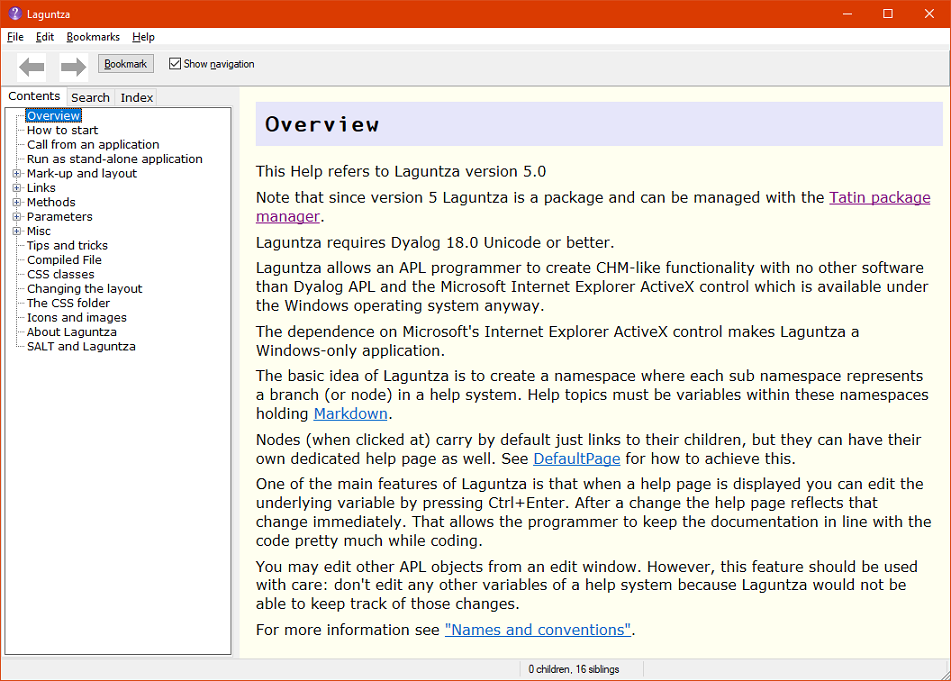
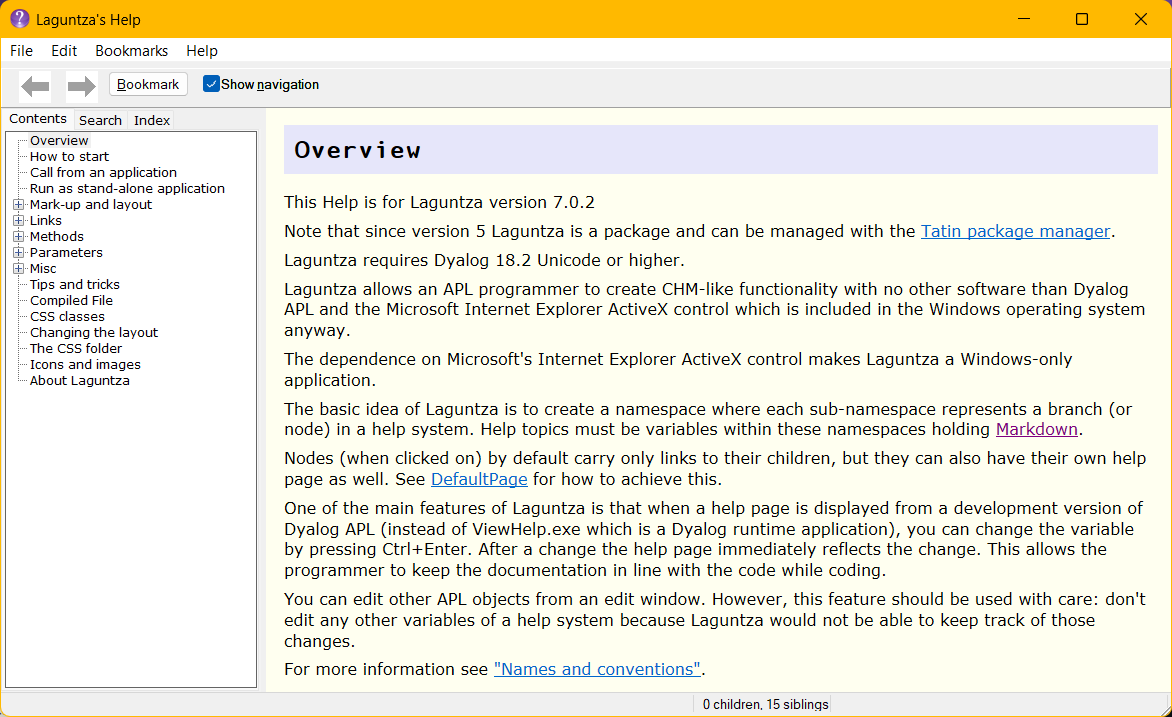
<About> enhanced and <helpVersionDate> brought back but optionally

diff --git a/README.md b/README.md
@@ -4,17 +4,19 @@ _Laguntza_ means "Help" in Basque.
 
 Laguntza takes Markdown (in the workspace) as input and creates a help system from it.
 
-Since version 5.0. Laguntza is a package that can be installed or loaded with the Dyalog package manager Tatin[^tatin].
+Since version 5.0 Laguntza is a package that can be installed or loaded with the Dyalog package manager Tatin[^tatin].
 
 ## Requirements 
 
-Since version 5.0.0 `Laguntza` needs at least Dyalog version 18.0.
+Since version 5.0.0 `Laguntza` needs at least Dyalog version 18.2
 
 It also requires the Tatin package manager.
 
 ## Overview 
 
-Laguntza allows you to create a CHM-like help file (including an "Index" and a "Search" tab) by creating variables that hold [Markdown](https://daringfireball.net/projects/markdown/) text defining a help page. This makes you, a Dyalog APL programmer, completely independent from any 3rd-party tools for creating and maintaining help files. 
+Laguntza allows you to create a CHM-like help file (including an "Index" and a "Search" tab) by creating variables that hold 
+[Markdown](https://daringfireball.net/projects/markdown/) text defining a help page. 
+This makes you, a Dyalog APL programmer, completely independent from any 3rd-party tools for creating and maintaining help files. 
 
 It has the benefit of allowing you to edit your help pages with the function editor while developing or tracing your application.
 
@@ -53,7 +55,7 @@ You may investigate this new help system with the Workspace Explorer:
 
 ![](/Assets/Images/Laguntza_02.png)
 
-Note how the namespaces reflect nodes and the variables reflect help topics.
+Note how the namespaces reflect nodes while the variables reflect help topics.
 
 You can edit any help page by pressing Ctrl+Enter or selecting "Edit Help page" from the context menu.
 
@@ -65,3 +67,6 @@ This is what a typical help variable looks like:
 [^tatin]: _Tatin_ is a package manager for Dyalog APL packages;
 The project lives on <https://github.com/aplteam/Tatin>; The principal Tatin server is <https://tatin.dev>
 
+Rather than displaying a help system from within Dyalog, you can also use the stand-alone application `ViewHelp.exe`:
+Download it from <https://github.com/aplteam/Laguntza/releases> and make the EXE a sibling of the compiled help
+system (the file `Laguntza.dcf`). Then double-clicking `ViewHelp.exe` puts the help system on display.
